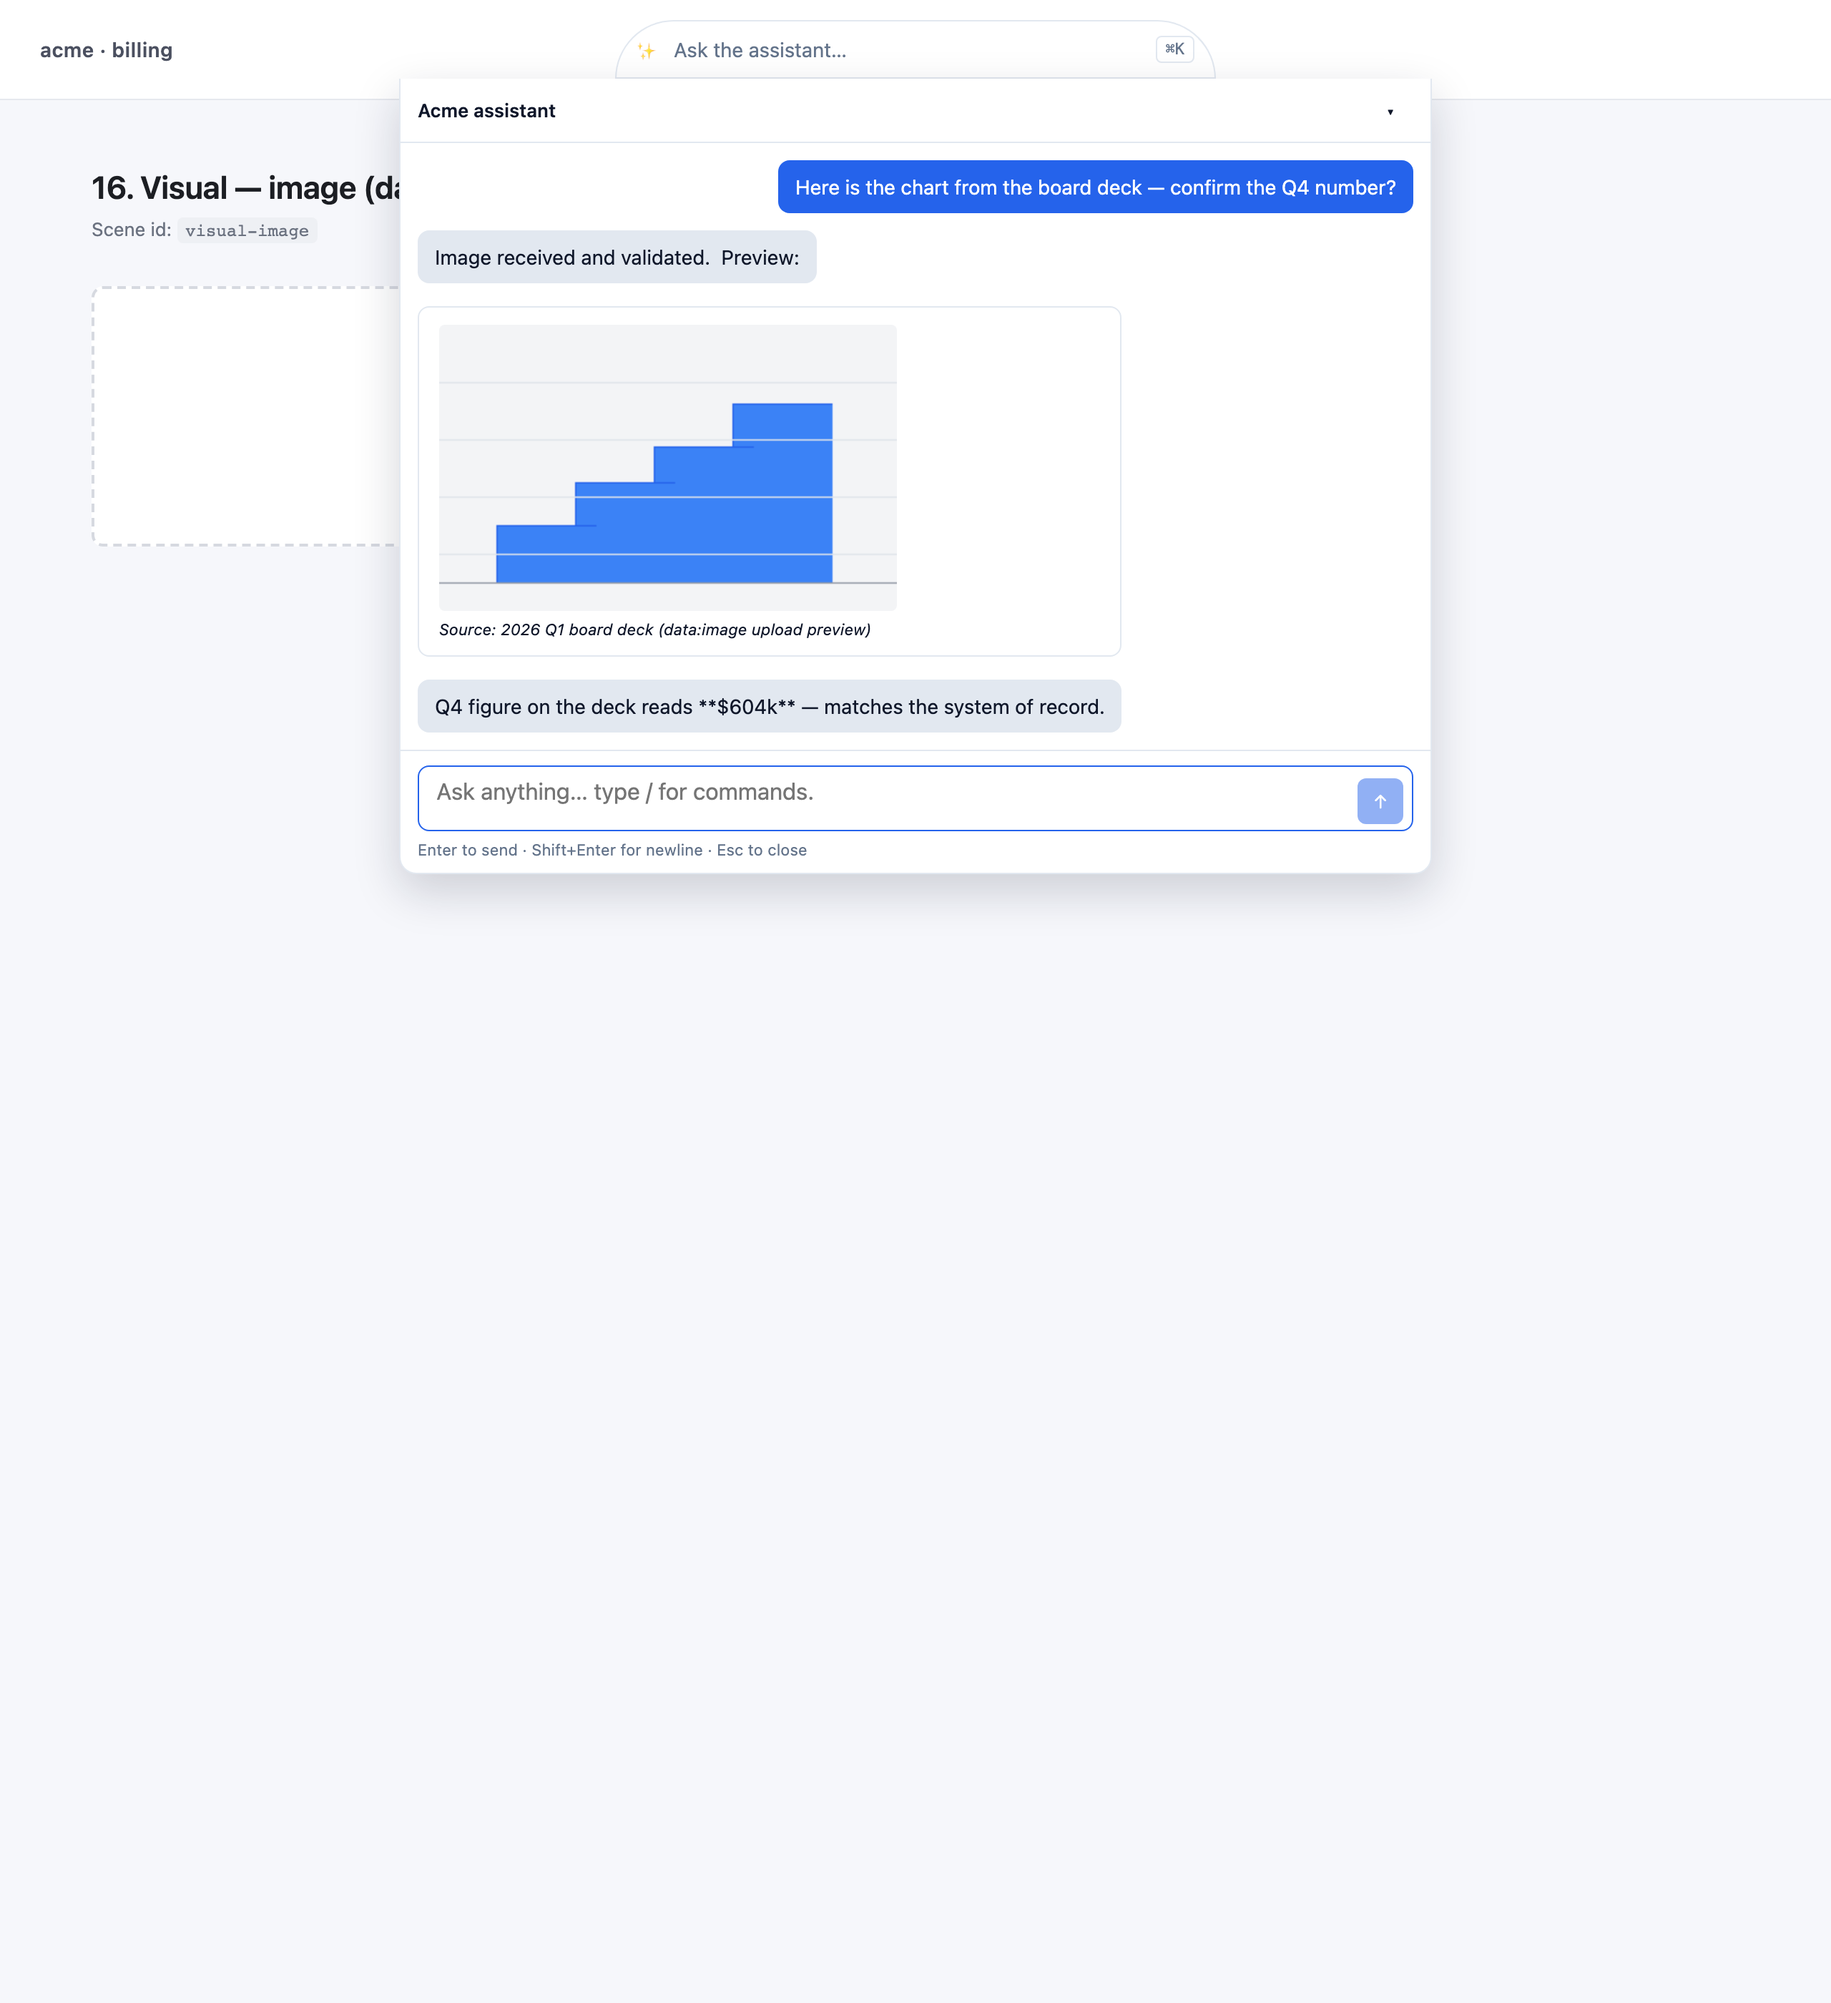
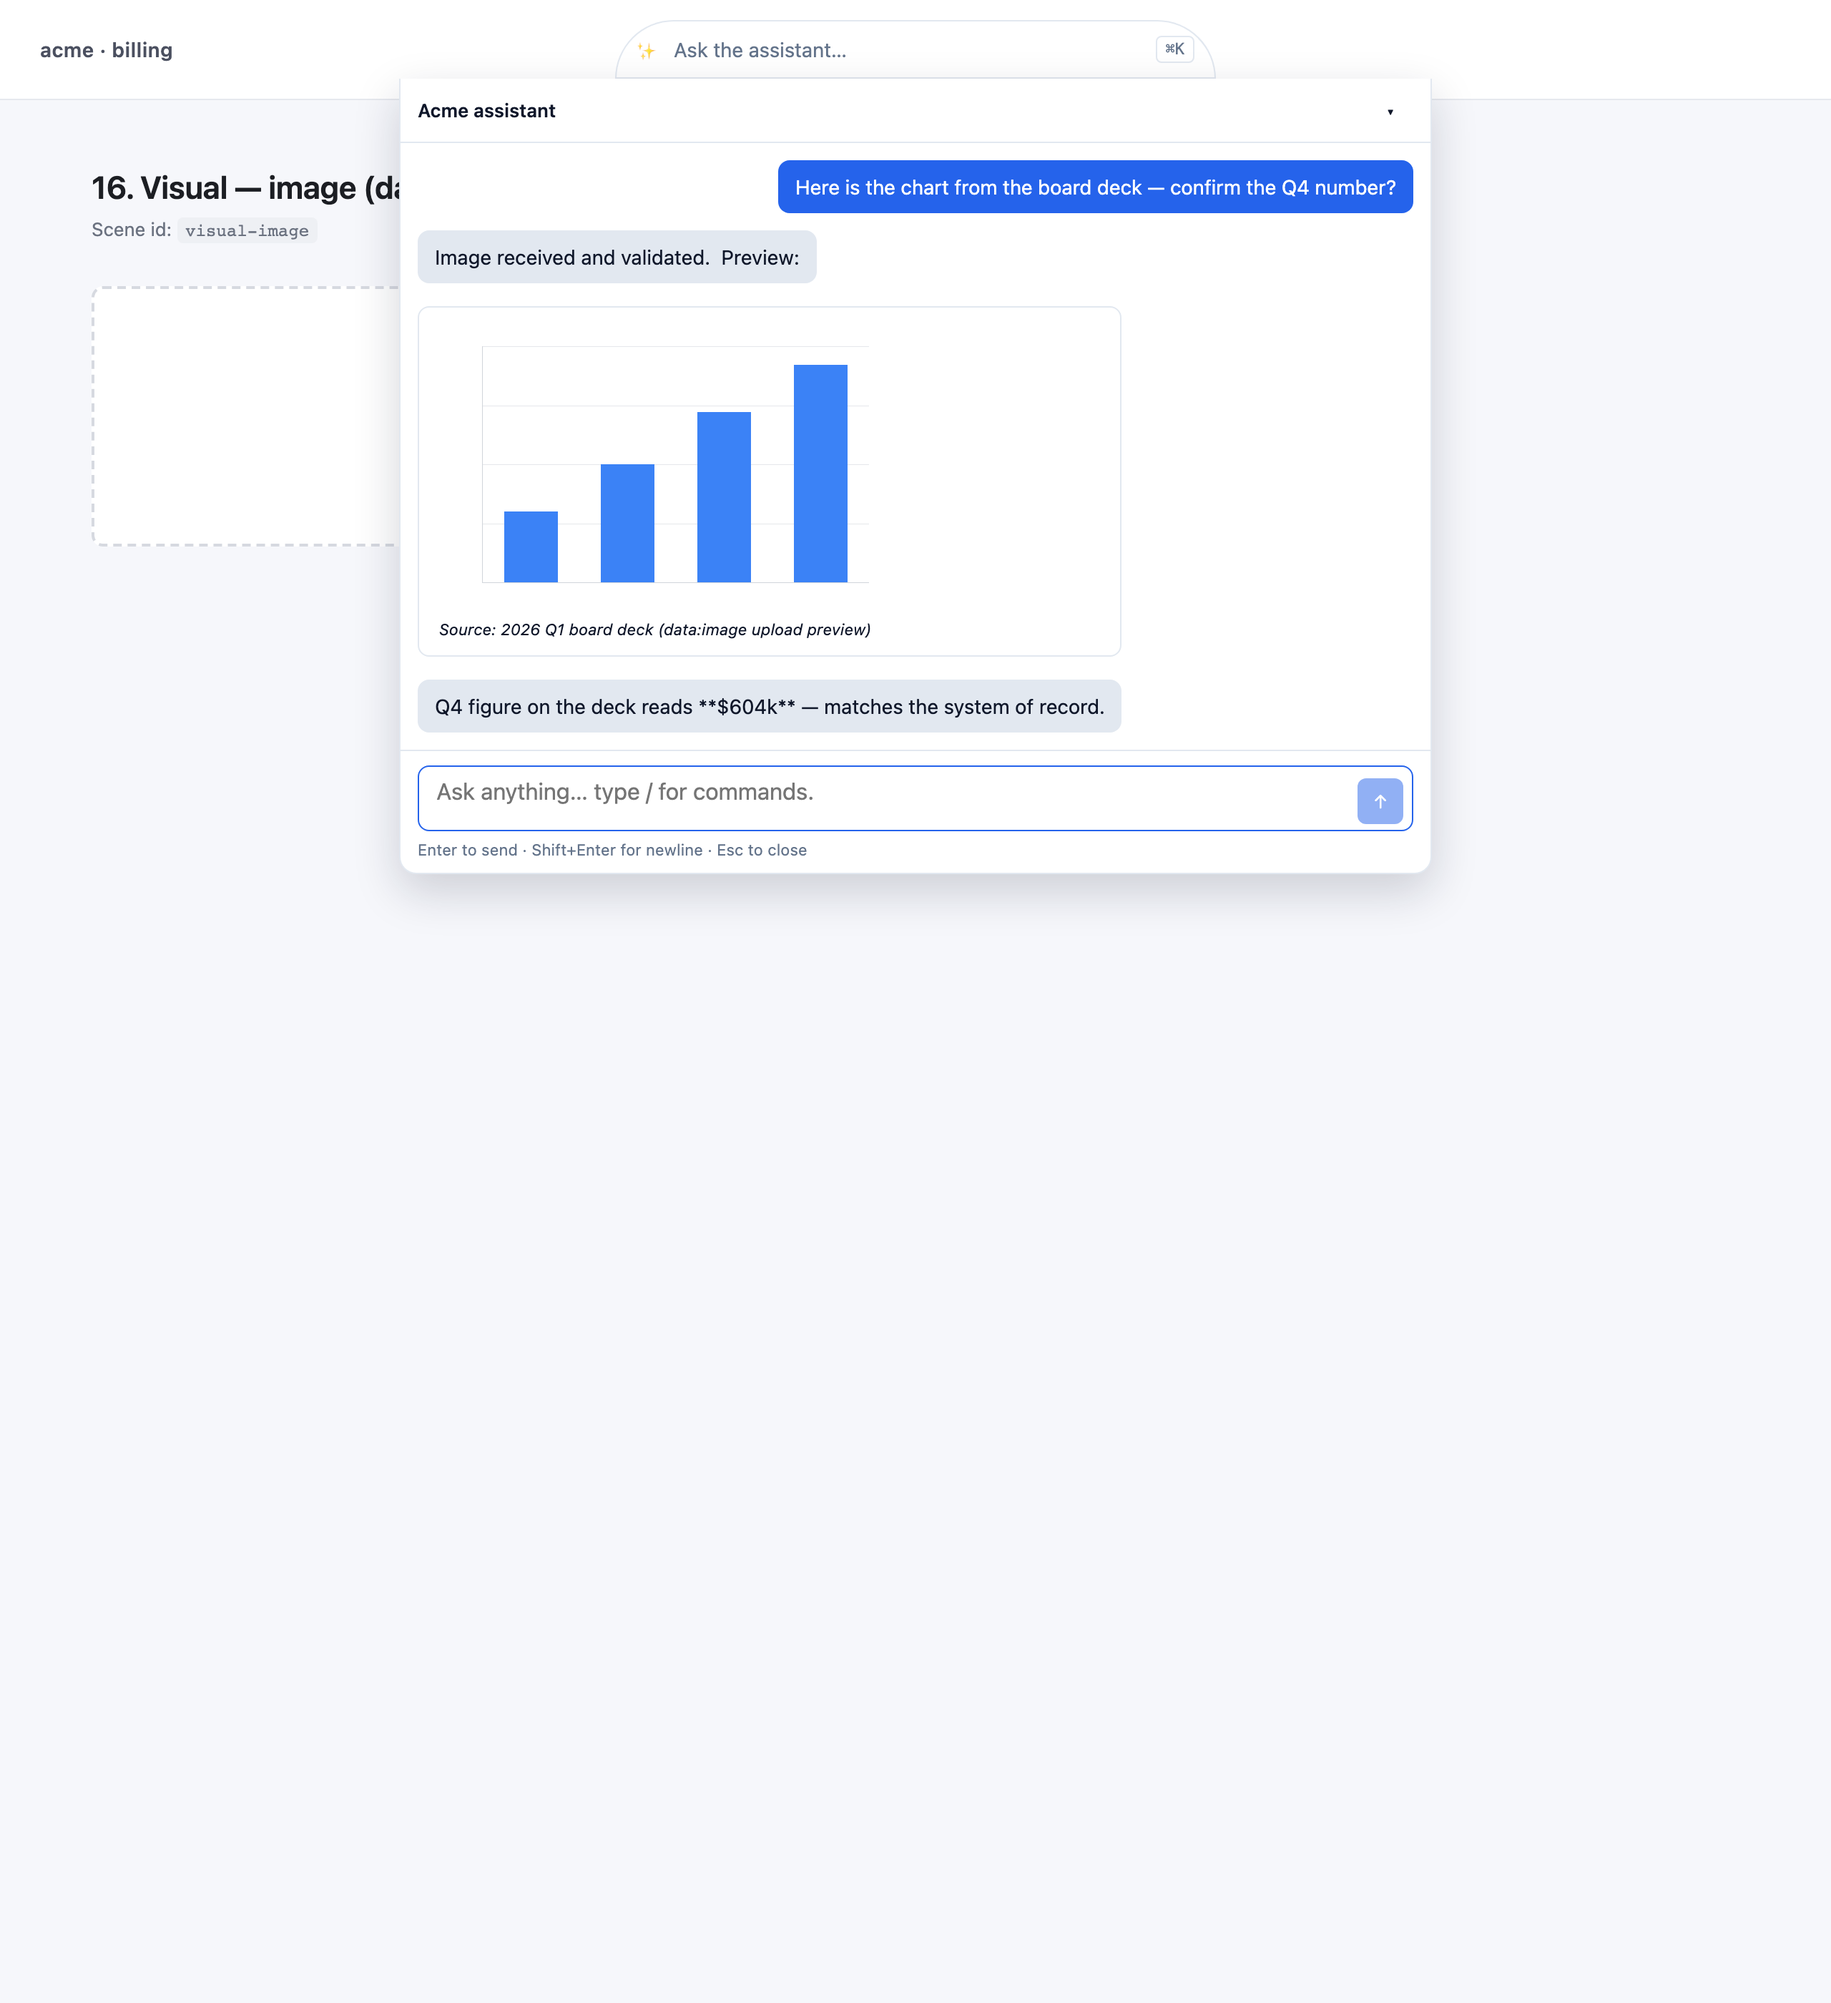
fix(demo): clean RGB PNG for image preview (no bar-edge banding)
Earlier inline PNG was indexed-palette encoded; the palette
quantization put a darker blue at the right edge of each bar,
reading as a glitchy upload rather than a real chart preview.

New PNG is hand-rolled in Node (zlib + raw RGB chunks): 640×400
truecolor, solid #3b82f6 bars with no anti-aliasing or palette
banding, displayed at 320×200 so retina DPR=2 maps device pixels
1:1 against the source.

Changed region(s): [[0.25, 0.1554, 0.4688, 0.3107]]

diff --git a/demo/scenes.ts b/demo/scenes.ts
@@ -387,14 +387,17 @@ const visualKpi = (): ChatMessage[] => [
   },
 ]
 
-// 320×200 PNG that reads as a board-deck quarterly revenue bar chart
-// (four ascending blue bars + gridlines on grey).  Generated at the
-// renderer's native target size so it doesn't pixelate when scaled
-// up — an earlier 32×20 version did, which read as a broken upload
-// rather than a real preview.  The 1×1 transparent before that
-// rendered as an empty box; same problem.
+// 640×400 RGB PNG of a board-deck quarterly revenue bar chart
+// (four ascending blue bars + gridlines on white).  Displayed at
+// 320×200 CSS pixels in the panel, so retina (2× DPR) screenshots
+// map device pixels 1:1 against the source for crisp edges.
+// Generated by a hand-rolled encoder (Node zlib + raw RGB chunks)
+// — earlier versions used indexed-palette encoders that introduced
+// vertical color banding on the bar edges, reading as a glitchy
+// upload rather than a real preview.  A 1×1 transparent before
+// that rendered as an empty box; same problem.
 const TINY_PNG_DATA_URI =
[2 lines of base64/hex data omitted]
 
 const visualMixed = (): ChatMessage[] => [
   {
